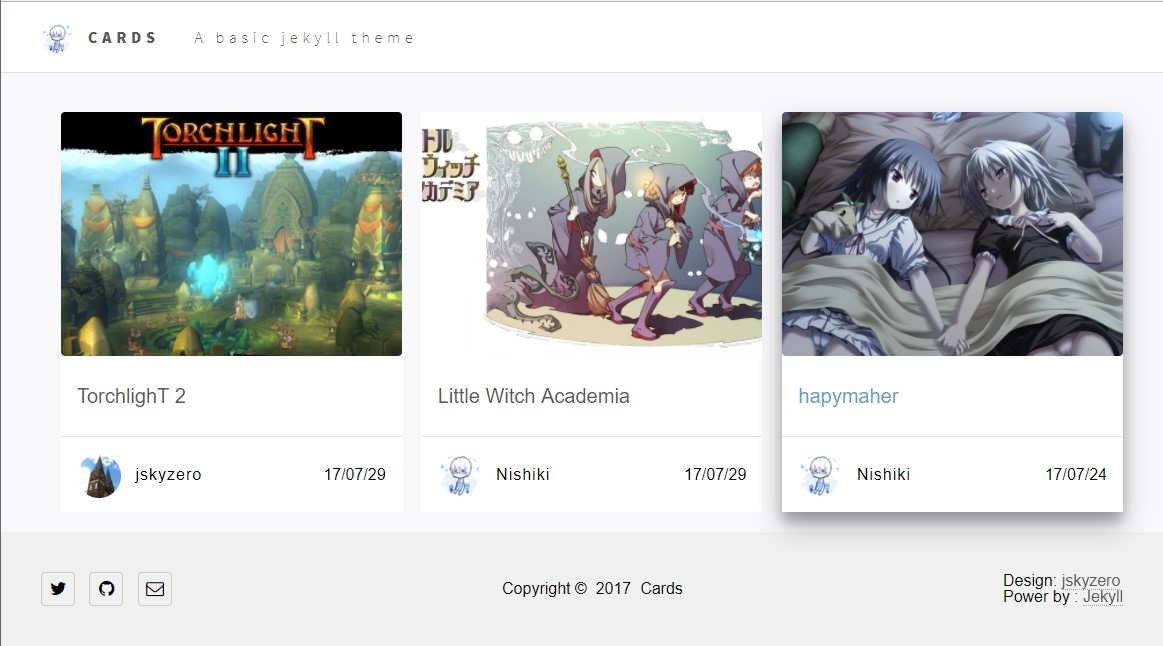
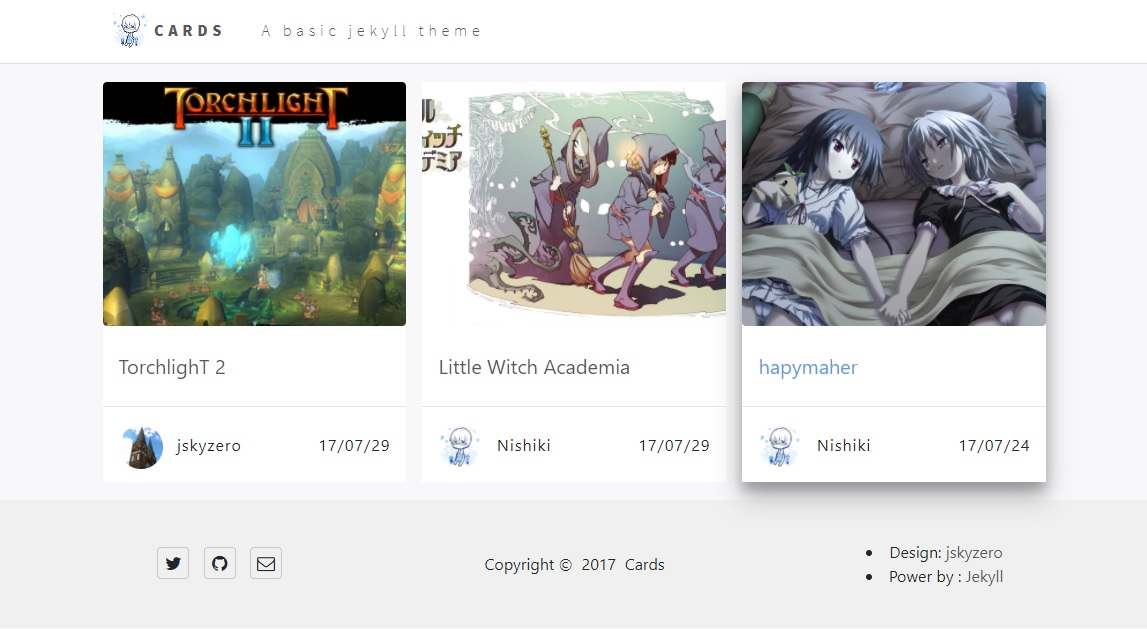
update readme and preview

diff --git a/README.md b/README.md
@@ -20,3 +20,5 @@ If you want use bundle, just copy the gems folder's files to your folder, then m
 - [x] Finished HTML part
 - [x] Finished CSS part
 - [x] add JavaScrpt part ( In fact the javascript file is empty
+
+- [x] add bootstrp v4
